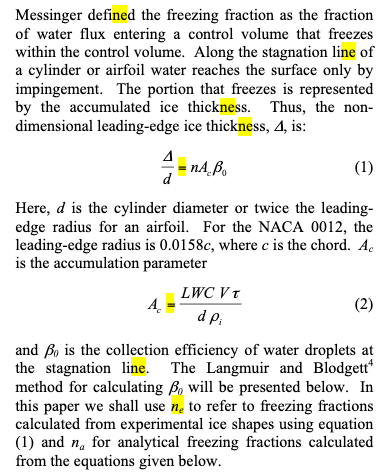
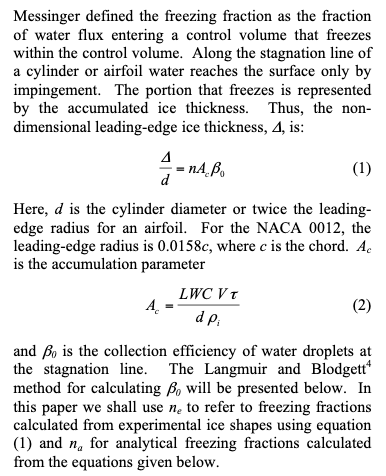
draft testing-messinger-freezing-fraction-calculations-with-the-iceval-database.html

diff --git a/docs/drafts/testing-messinger-freezing-fraction-calculations-with-the-iceval-database.html b/docs/drafts/testing-messinger-freezing-fraction-calculations-with-the-iceval-database.html
@@ -38,7 +38,7 @@
                 Published: Sat 06 June 2026
         </abbr>
 		<br />
-        <abbr class="modified" title="2026-06-06T15:16:58.911800-07:00">
+        <abbr class="modified" title="2026-06-06T15:52:23.970048-07:00">
                 Updated: Sat 06 June 2026
         </abbr>
 <!---->
@@ -60,15 +60,17 @@ Here, we will test some of them using the 3665 experimental ice shapes in the Ic
 So, when we use all 3332 IceVal experimental shapes from tests woth diverse objectives, 
 things can get messy. </p>
 <p>However, we will see that the final results are surprisingly good.  </p>
-<h2>NASA/CR-2005-231852 <sup id="fnref:3"><a class="footnote-ref" href="#fn:3">2</a></sup></h2>
-<p>"Evaluation and Validation of the Messinger Freezing Fraction" 
-looked at correlating ice shape parameters to calculated leading edge freezing fraction.<br>
-The test cases within it are now a subset of the IceVal database.  </p>
-<p>40 condition were tested to verify an implementation of <a href="link">Messinger</a> <sup id="fnref:4"><a class="footnote-ref" href="#fn:4">3</a></sup> freezing fraction calculations 
+<h2>NASA/CR-2005-213852 <sup id="fnref:3"><a class="footnote-ref" href="#fn:3">2</a></sup></h2>
+<p><a href="/conclusions-of-the-ice-shapes-and-their-effects-thread.html">"Evaluation and Validation of the Messinger Freezing Fraction"</a> 
+has been reviewed previously.  </p>
+<p>It looked at correlating ice shape parameters to calculated leading edge freezing fraction.  </p>
+<p>The test cases within it are now a subset of the IceVal database.  </p>
+<p>40 condition were tested to verify an implementation of <a href="/messinger.html">Messinger</a> <sup id="fnref:4"><a class="footnote-ref" href="#fn:4">3</a></sup> freezing fraction calculations 
 for the leading edge of an airfoil.  </p>
 <p><img alt="cr231852_table1.png" src="images/iceval_mff/cr231852_table1.png">  </p>
 <p>A key assumption is that the leading edge water collection efficiency can be accurately estimated from 
-the Langmuir-Blodgett correlation (See reference <sup id="fnref2:3"><a class="footnote-ref" href="#fn:3">2</a></sup> or <a href="link">Langmuir</a> for more details).  </p>
+the Langmuir-Blodgett correlation (See reference <sup id="fnref2:3"><a class="footnote-ref" href="#fn:3">2</a></sup> or 
+<a href="/mathematical-investigation-of-water-droplet-trajectories.html">Langmuir</a> for more details).  </p>
 <p><img alt="cr231852_equ3.png" src="images/iceval_mff/cr231852_equ3.png">  </p>
 <p>For an airfoil, the leading diameter of curvature is used when calculating Ko, 
 not the leading edge radius as for a cylinder.  </p>
@@ -77,7 +79,7 @@ with 3332 cases considered, including cases for several airfoils at several AOA 
 and several large drop icing cases.  </p>
 <p><img alt="iceval_no_ne_bo_beta.png" src="images/iceval_mff/iceval_no_ne_bo_beta.png"></p>
 <p>The analytic leading edge freezing fraction can then be calculated.
-(See reference <sup id="fnref3:3"><a class="footnote-ref" href="#fn:3">2</a></sup> or <a href="link">MoSM</a> for more details). </p>
+(See reference <sup id="fnref3:3"><a class="footnote-ref" href="#fn:3">2</a></sup> or <a href="/manual-of-scaling-methods.html">Manual of Scaling Methods</a> for more details).  </p>
 <p><img alt="cr213852_equ10.png" src="images/iceval_mff/cr213852_equ10.png">  </p>
 <p>An experimental freezing fraction "ne" can be calculated from equation (1). </p>
 <p><img alt="cr213853_equ1.png" src="images/iceval_mff/cr213853_equ1.png">  </p>
@@ -107,7 +109,7 @@ it is desirable to be able to predict the value of hu.</p>
 It is perhaps doubtful that this could be a useful correlation. </p>
 <p>However, we can back-calculate a predicted hu value for each case from the correlation and the 
 definition of nx. 
-we can then calculate a non-dimensional height ratio relative heigh difference as in the validation report <sup id="fnref4:3"><a class="footnote-ref" href="#fn:3">2</a></sup>.  </p>
+we can then calculate a non-dimensional height ratio relative heigh difference as in the LEWICE validation report <sup id="fnref4:3"><a class="footnote-ref" href="#fn:3">2</a></sup>.  </p>
 <blockquote>
 <p>Where the ice shape
 does have a glaze ice horn, the max. thickness does
@@ -143,18 +145,18 @@ and would require a unique post (if not several) to detail.  </p>
 <p>The 'IceThicknessLEMin' values output by the LEWICE THICK utility were found to not be always reliable. 
 This is also true for the values in the IceVal ThickUtility Data table.
 The leading edge ice thickness is required to determine ne with equations (1) and (2). 
-The <a href="link">Geometric Analysis method</a> was used to determine the values herein.  </p>
+The <a href="/a-geometric-analysis-method.html">Geometric Analysis method</a> was used to determine the values herein.  </p>
 <h2>Conclusions</h2>
 <p>The Messinger freezing fraction correlation is re-validated herein over 3332 experimental cases, 
-in more detail than in [^2]. </p>
+in more detail than in <sup id="fnref5:3"><a class="footnote-ref" href="#fn:3">2</a></sup>. </p>
 <p>The use of the correlations is much simpler than using LEWICE or other Computational Fluid Dynamics model 
 to determine horn height and 
 location, and the correlation is as accurate!  </p>
 <p>One "only" had to run 3332 experimental cases on several airfoils at a wide variety of conditions 
-to obtain the correlations.  </p>
-<p>I view this as largely fulfilling Wilder's vision of [editing out the "and sweep" part]:    </p>
+to obtain the correlations.<br>
+I view this as largely fulfilling <a href="/the-greatest-thing-that-you-have-probably-never-read-1969-aircraft-ice-protection-report-of-symposium-ramon-wilder.html">Wilder's vision</a> of [editing out the "and sweep" part]:    </p>
 <blockquote>
-<p>Use of these relationships allows the direct determination of ice shapes adjusted for 
+<p>Use of these relationships allows the direct determination of ice shapes adjusted for
 any given icing and flight condition as well as for size ... of the airfoil  </p>
 </blockquote>
 <h1>Notes</h1>
@@ -171,10 +173,14 @@ large volume of data generated and utilized in performing icing research.<br>
 <a href="https://software.nasa.gov/software/LEW-18343-1">software.nasa.gov</a>&#160;<a class="footnote-backref" href="#fnref:1" title="Jump back to footnote 1 in the text">&#8617;</a><a class="footnote-backref" href="#fnref2:1" title="Jump back to footnote 1 in the text">&#8617;</a></p>
 </li>
 <li id="fn:3">
-<p>Anderson, David N., and Jen-Ching Tsao. "Evaluation and Validation of the Messinger Freezing Fraction." 41st Aerospace Sciences Meeting and Exhibit. No. NASA/CR-2005-213852. 2005.  <a href="https://ntrs.nasa.gov/citations/20050215212">ntrs</a>&#160;<a class="footnote-backref" href="#fnref:3" title="Jump back to footnote 2 in the text">&#8617;</a><a class="footnote-backref" href="#fnref2:3" title="Jump back to footnote 2 in the text">&#8617;</a><a class="footnote-backref" href="#fnref3:3" title="Jump back to footnote 2 in the text">&#8617;</a><a class="footnote-backref" href="#fnref4:3" title="Jump back to footnote 2 in the text">&#8617;</a></p>
+<p>Anderson, David N., and Jen-Ching Tsao. "Evaluation and Validation of the Messinger Freezing Fraction." 41st Aerospace Sciences Meeting and Exhibit. No. NASA/CR-2005-213852. 2005.  <a href="https://ntrs.nasa.gov/citations/20050215212">ntrs</a>&#160;<a class="footnote-backref" href="#fnref:3" title="Jump back to footnote 2 in the text">&#8617;</a><a class="footnote-backref" href="#fnref2:3" title="Jump back to footnote 2 in the text">&#8617;</a><a class="footnote-backref" href="#fnref3:3" title="Jump back to footnote 2 in the text">&#8617;</a><a class="footnote-backref" href="#fnref4:3" title="Jump back to footnote 2 in the text">&#8617;</a><a class="footnote-backref" href="#fnref5:3" title="Jump back to footnote 2 in the text">&#8617;</a></p>
 </li>
 <li id="fn:4">
 <p>Messinger, B. L.: Equilibrium Temperature of an Unheated Icing Surface as a Function of Airspeed. Preprint No. 342, Presented at I.A.S. Meeting, June 27-28, 1951.&#160;<a class="footnote-backref" href="#fnref:4" title="Jump back to footnote 3 in the text">&#8617;</a></p>
+</li>
+<li id="fn:5">
+<p>Wright, William, Mark Potapczuk, and Laurie Levinson. "Comparison of LEWICE and GlennICE in the SLD Regime." 46th AIAA aerospace sciences meeting and exhibit. 2008.<br>
+<a href="https://ntrs.nasa.gov/citations/20080041518">NASA/CR-2008-215174</a>&#160;<a class="footnote-backref" href="#fnref:5" title="Jump back to footnote 4 in the text">&#8617;</a></p>
 </li>
 </ol>
 </div>

diff --git a/content/ffs.md b/content/ffs.md
@@ -18,19 +18,23 @@ things can get messy.
 
 However, we will see that the final results are surprisingly good.  
 
-## NASA/CR-2005-231852 [^3]  
+## NASA/CR-2005-213852 [^3]  
 
-"Evaluation and Validation of the Messinger Freezing Fraction" 
-looked at correlating ice shape parameters to calculated leading edge freezing fraction.  
+["Evaluation and Validation of the Messinger Freezing Fraction"]({filename}Conclusions%20of%20the%20Ice%20Shapes%20and%20Their%20Effects%20Thread.md) 
+has been reviewed previously.  
+
+It looked at correlating ice shape parameters to calculated leading edge freezing fraction.  
+
 The test cases within it are now a subset of the IceVal database.  
 
-40 condition were tested to verify an implementation of [Messinger](link) [^4] freezing fraction calculations 
+40 condition were tested to verify an implementation of [Messinger]({filename}messinger.md) [^4] freezing fraction calculations 
 for the leading edge of an airfoil.  
 
 ![cr231852_table1.png](images/iceval_mff/cr231852_table1.png)  
 
 A key assumption is that the leading edge water collection efficiency can be accurately estimated from 
-the Langmuir-Blodgett correlation (See reference [^3] or [Langmuir](link) for more details).  
+the Langmuir-Blodgett correlation (See reference [^3] or 
+[Langmuir]({filename}Mathematical%20Investigation%20of%20Water%20Droplet%20Trajectories.md) for more details).  
 
 ![cr231852_equ3.png](images/iceval_mff/cr231852_equ3.png)  
 
@@ -44,12 +48,12 @@ and several large drop icing cases.
 ![iceval_no_ne_bo_beta.png](images/iceval_mff/iceval_no_ne_bo_beta.png)
 
 The analytic leading edge freezing fraction can then be calculated.
-(See reference [^3] or [MoSM](link) for more details). 
+(See reference [^3] or [Manual of Scaling Methods]({filename}NASA-CR-2004-212875.md) for more details).  
 
 ![cr213852_equ10.png](images/iceval_mff/cr213852_equ10.png)  
 
 An experimental freezing fraction "ne" can be calculated from equation (1). 
-
+ 
 ![cr213853_equ1.png](images/iceval_mff/cr213853_equ1.png)  
 
 For a series of cases where the accumulation parameter (total water exposure) dimensionless parameter Ac was held constant, 
@@ -92,13 +96,13 @@ It is perhaps doubtful that this could be a useful correlation.
 
 However, we can back-calculate a predicted hu value for each case from the correlation and the 
 definition of nx. 
-we can then calculate a non-dimensional height ratio relative heigh difference as in the validation report [^3].  
+we can then calculate a non-dimensional height ratio relative heigh difference as in the LEWICE validation report [^3].  
 
->Where the ice shape
-does have a glaze ice horn, the max. thickness does
-give the horn thickness. In order to compare different
-conditions with different chord lengths and accretion
-conditions, the individual ice thicknesses were non-dimensionalized by the maximum accumulation thickness as given in Equation 3.
+> Where the ice shape
+> does have a glaze ice horn, the max. thickness does
+> give the horn thickness. In order to compare different
+> conditions with different chord lengths and accretion
+> conditions, the individual ice thicknesses were non-dimensionalized by the maximum accumulation thickness as given in Equation 3.
 
 ![Equation 3.](images/6000_ice_shapes/equation%203.png)  
 
@@ -130,7 +134,6 @@ while LEWICE had a +/-25 degree difference.
 
 ![LEWICE32_geometric_thetar](images/6000_ice_shapes/LEWICE32_geometric_thetar.png)  
 
-
 ## Notes about LEWICE and THICK  
 
 LEWICE can calculate an initial leading edge freezing fraction. 
@@ -142,12 +145,12 @@ and would require a unique post (if not several) to detail.
 The 'IceThicknessLEMin' values output by the LEWICE THICK utility were found to not be always reliable. 
 This is also true for the values in the IceVal ThickUtility Data table.
 The leading edge ice thickness is required to determine ne with equations (1) and (2). 
-The [Geometric Analysis method](link) was used to determine the values herein.  
+The [Geometric Analysis method]({filename}thicker.md) was used to determine the values herein.  
 
 ## Conclusions  
 
 The Messinger freezing fraction correlation is re-validated herein over 3332 experimental cases, 
-in more detail than in [^2]. 
+in more detail than in [^3]. 
 
 The use of the correlations is much simpler than using LEWICE or other Computational Fluid Dynamics model 
 to determine horn height and 
@@ -155,11 +158,10 @@ location, and the correlation is as accurate!
 
 One "only" had to run 3332 experimental cases on several airfoils at a wide variety of conditions 
 to obtain the correlations.  
+I view this as largely fulfilling [Wilder's vision]({filename}wilder.md) of [editing out the "and sweep" part]:    
 
-I view this as largely fulfilling Wilder's vision of [editing out the "and sweep" part]:    
-
->Use of these relationships allows the direct determination of ice shapes adjusted for 
-any given icing and flight condition as well as for size ... of the airfoil  
+> Use of these relationships allows the direct determination of ice shapes adjusted for
+> any given icing and flight condition as well as for size ... of the airfoil  
 
 # Notes  
 
@@ -175,3 +177,6 @@ large volume of data generated and utilized in performing icing research.
 Anderson, David N., and Jen-Ching Tsao. "Evaluation and Validation of the Messinger Freezing Fraction." 41st Aerospace Sciences Meeting and Exhibit. No. NASA/CR-2005-213852. 2005.  [ntrs](https://ntrs.nasa.gov/citations/20050215212)  
 [^4]: 
 Messinger, B. L.: Equilibrium Temperature of an Unheated Icing Surface as a Function of Airspeed. Preprint No. 342, Presented at I.A.S. Meeting, June 27-28, 1951.  
+[^5]: 
+Wright, William, Mark Potapczuk, and Laurie Levinson. "Comparison of LEWICE and GlennICE in the SLD Regime." 46th AIAA aerospace sciences meeting and exhibit. 2008.  
+[NASA/CR-2008-215174](https://ntrs.nasa.gov/citations/20080041518)  
